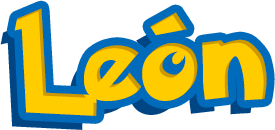
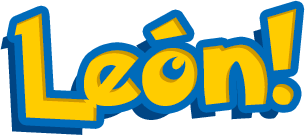
added js

diff --git a/style.css b/style.css
@@ -6,7 +6,15 @@
   width: 103px;
   height: 54px;
   z-index: 31;
-  display: none;
+}
+.off {
+  background-image: url("images/off.png");
+  position: absolute;
+  left: 177px;
+  top: 33px;
+  width: 117px;
+  height: 69px;
+  z-index: 28;
 }
 .fondoNegro {
   background-image: url("images/fondoNegro.png");
@@ -18,14 +26,8 @@
   z-index: 30;
   display: none;
 }
-.off {
-  background-image: url("images/off.png");
-  position: absolute;
-  left: 177px;
-  top: 33px;
-  width: 117px;
-  height: 69px;
-  z-index: 28;
+.hidden {
+  display: none;
 }
 .globos {
   background-image: url("images/globos.png");
@@ -48,12 +50,13 @@
 .leon {
   background-image: url("images/leon.png");
   position: absolute;
-  left: 101px;
-  top: 611px;
-  width: 275px;
-  height: 130px;
+  left: 86px;
+  top: 606px;
+  width: 305px;
+  height: 135px;
   z-index: 26;
 }
+
 .cumpleanos {
   background-image: url("images/cumpleaños.png");
   position: absolute;

diff --git a/index.html b/index.html
@@ -12,15 +12,15 @@
   <div class="container">
     <div class="row">
       <div class="col-sm">
-        <div class="off"></div>
+        <div class="on hidden"></div>
+        <div class="off hidden"></div>
+        <div class="fondoNegro"></div>
         <div class="cumpleanos"></div>
         <div class="fecha"></div>
         <div class="feliz"></div>
         <div class="fondo"></div>
-        <div class="fondoNegro"></div>
         <div class="globos"></div>
         <div class="leon"></div>
-        <div class="on"></div>
         <div class="pikachu"></div>
         <div class="pokemon"></div>
         <div class="rayas"></div>
@@ -29,5 +29,6 @@
       </div>
     </div>
   </div>
+  <script src="app.js"></script>
 </body>
 </html>

diff --git a/app.js b/app.js
@@ -1,0 +1,6 @@
+const on = document.querySelector('.on')
+const off = document.querySelector('.off')
+
+on.addEventListener('click', () => {
+  on.classList.add('hidden')
+})
